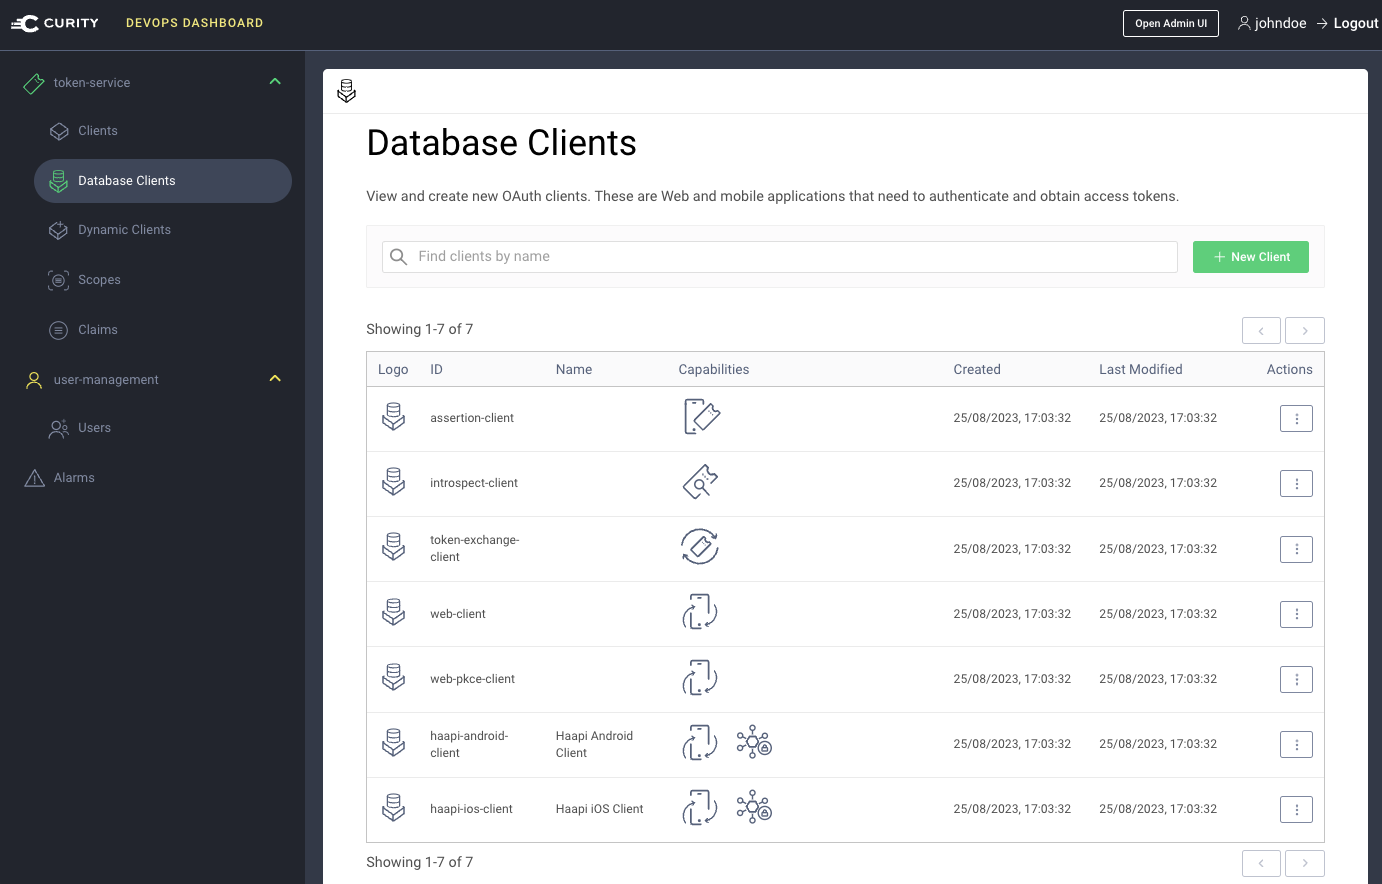
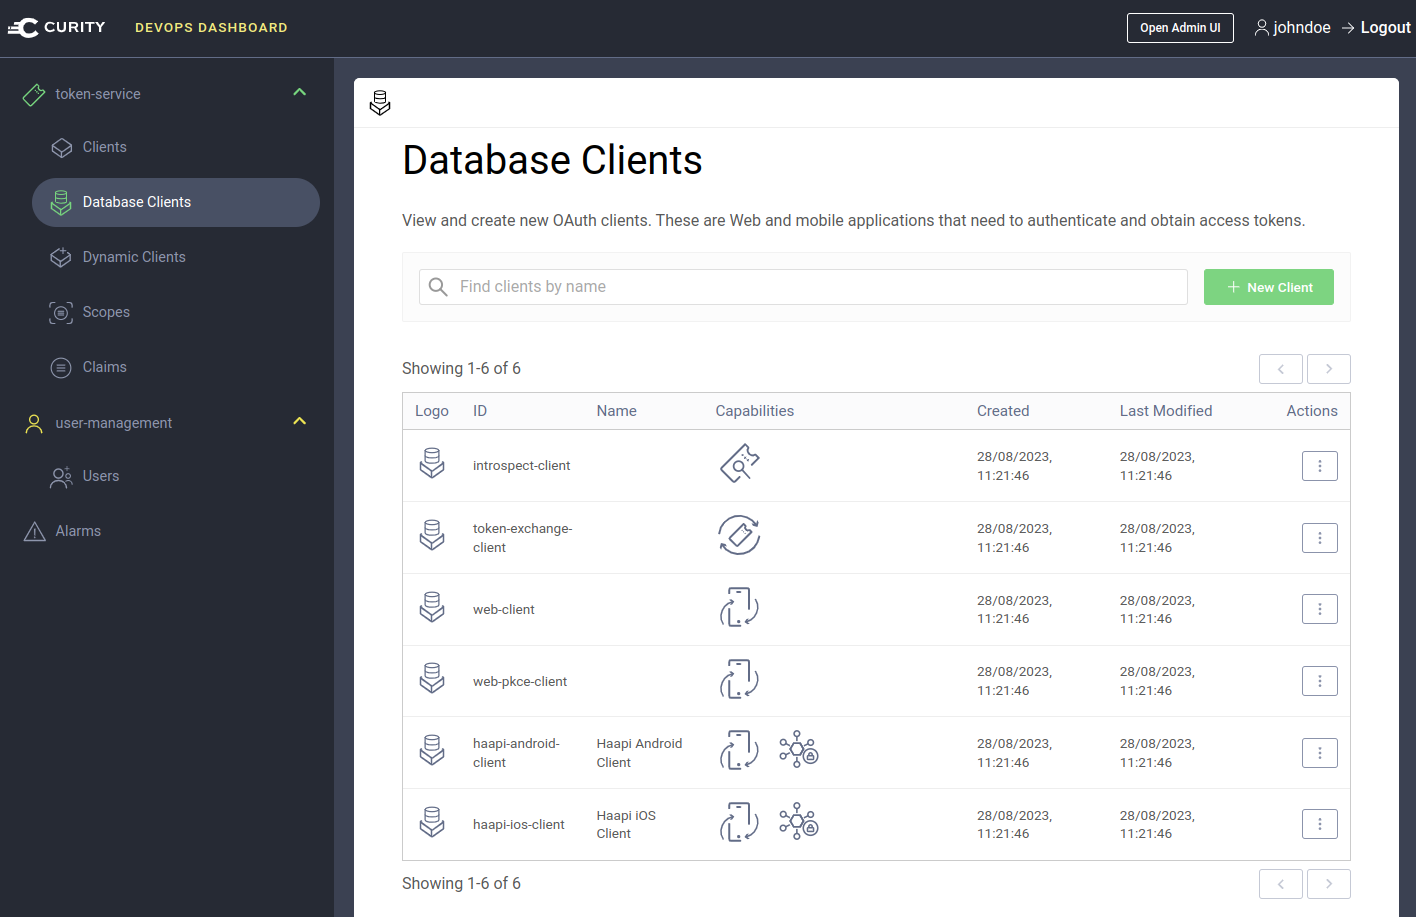
Ensure a consistent client migration

diff --git a/src/data/clientMapper.ts b/src/data/clientMapper.ts
@@ -42,7 +42,11 @@ import {
 
 export class ClientMapper {
 
-    public convertToDatabaseClient(configClient: ConfigurationClient): CreateDatabaseClientInput {
+    public convertToDatabaseClient(configClient: ConfigurationClient): CreateDatabaseClientInput | null {
+
+        if (!this.isSupported(configClient)) {
+            return null;
+        }
 
         return {
             fields: {
@@ -77,6 +81,22 @@ export class ClientMapper {
                 validate_port_on_loopback_interfaces: configClient['validate-port-on-loopback-interfaces'] || null,
             }
         };
+    }
+
+    private isSupported(configClient: ConfigurationClient): boolean {
+
+        if (configClient['jwks-uri'] || configClient['mutual-tls'] || configClient['mutual-tls-by-proxy']) {
+            return false;
+        }
+
+        const secondary = configClient['secondary-authentication-method'];
+        if (secondary) {
+            if (secondary['jwks-uri'] || secondary['mutual-tls'] || secondary['mutual-tls-by-proxy']) {
+                return false;
+            }
+        }
+
+        return true;
     }
 
     private getCapabilities(configClient: ConfigurationClient): CapabilitiesInput {
@@ -275,9 +295,12 @@ export class ClientMapper {
                 },
             };
 
+        } else if (configClient['jwks-uri']) {
+
+            throw new Error('JWKS URI is not currently supported for database clients');
+
         } else {
 
-            // JWKS URI is unsupported for database clients, and is migrated with a type of no-authentication
             return {
                 no_authentication: NoAuth.NoAuth,
             };
@@ -286,9 +309,8 @@ export class ClientMapper {
 
     private getSecondaryClientAuthentication(configClient: ConfigurationClient): ClientAuthenticationVerifierInput | null {
 
-        // No authentication cannot be used for the secondary method, so do not set secondary details if JWKS URI is configured
         const secondary = configClient['secondary-authentication-method']
-        if (secondary && !secondary['jwks-uri'] && !secondary['no-authentication']) {
+        if (secondary) {
 
             if (secondary['asymmetric-key']) {
 
@@ -333,11 +355,15 @@ export class ClientMapper {
                         symmetric_key: secondary['symmetric-key'],
                     },
                 };
+
+            } else if (secondary['jwks-uri']) {
+
+                throw new Error('JWKS URI is not currently supported for database clients');
             }
         }
+
         return null;
     }
-
 
     private getMutualTls(configClient: ConfigClientMutualTls): MutualTlsInput {
 
@@ -348,7 +374,7 @@ export class ClientMapper {
             return {
                 dn: {
                     client_dn: configClient['client-dn'],
-                    rdns_to_match: [], // TOFIX
+                    rdns_to_match: [],
                     trusted_cas: trustedCas,
                 },
             };

diff --git a/src/index.ts b/src/index.ts
@@ -38,8 +38,15 @@ try {
 
                 console.log(`Migrating OAuth client '${configClient.id}' ...`);
                 const databaseClient = mapper.convertToDatabaseClient(configClient);
-                await graphqlClient.saveClient(databaseClient);
-                console.log(`OAuth client '${configClient.id}' was succesfully migrated to database storage`);
+                if (databaseClient) {
+
+                    await graphqlClient.saveClient(databaseClient);
+                    console.log(`OAuth client '${configClient.id}' was succesfully migrated to database storage`);
+
+                } else {
+
+                    console.log(`OAuth client '${configClient.id}' does not yet support database storage`);
+                }
             }
         }
     }

diff --git a/README.md b/README.md
@@ -41,7 +41,7 @@ npm install
 npm start
 ```
 
-This will provide some output messages:
+This will provide output, including any clients that don't currently support database storage:
 
 ```text
 Preparing environment ...
@@ -49,7 +49,7 @@ Reading all profiles from configuration ...
 Initializing GraphQL client ...
 Reading OAuth clients for profile 'token-service' ...
 Migrating OAuth client 'assertion-client' ...
-OAuth client 'assertion-client' was succesfully migrated to database storage
+OAuth client 'assertion-client' does not yet support database storage
 Migrating OAuth client 'haapi-android-client' ...
 OAuth client 'haapi-android-client' was succesfully migrated to database storage
 Migrating OAuth client 'haapi-ios-client' ...
